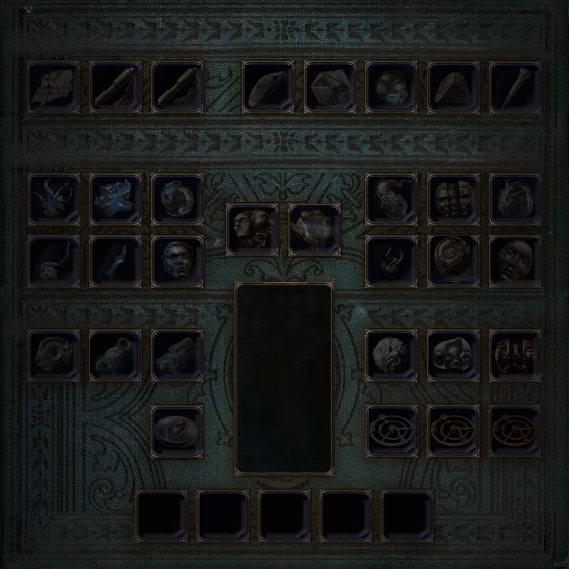
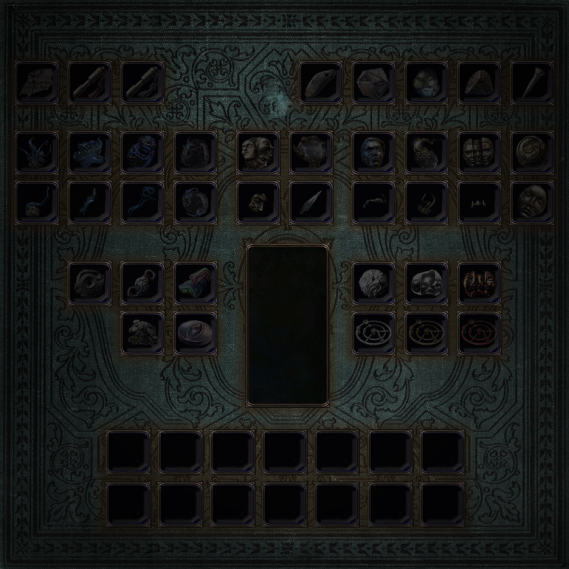
Added some stash tab backgrounds. Added scale values for stash items

diff --git a/core/items/stashitemlocation.cpp b/core/items/stashitemlocation.cpp
@@ -69,37 +69,55 @@ bool StashItemLocation::operator==(const ItemLocation &other) const {
     return _tabId == dynamic_cast<const StashItemLocation&>(other)._tabId;
 }
 
-void StashItemLocation::setItems(ItemList items, const QJsonObject &layout) {
-    _layout = layout;
+void StashItemLocation::setItems(ItemList items, const QJsonValue &layout) {
+    switch (_type) {
+        case Currency:
+        case Fragment: {
+            _layout = layout.toObject();
+        } break;
+        case Essence: {
+            if (layout.isArray()) {
+                _layout = QJsonObject();
+                auto arr = layout.toArray();
+                for (int i = 0; i < arr.size(); i++) {
+                    _layout.insert(QString::number(i), arr[i].toObject());
+                }
+            }
+            else {
+                _layout = layout.toObject();
+            }
+        } break;
+    }
+
     ItemLocation::setItems(items, layout);
+}
+
+double StashItemLocation::scale() const {
+    switch (_type) {
+        case Currency:  return 63.6f/80.0f;
+        case Essence:   return 63.6f/80.0f;
+        case Quad:      return 0.5f;
+        case Map:       return 71.0f/80.0f;
+        case Fragment:
+        default:        return 1.0f;
+    }
 }
 
 QPointF StashItemLocation::itemPos(const Item &item) const {
     QPointF pos = ItemLocation::itemPos(item);
     switch (_type) {
-        case Currency: {
+        case Currency:
+        case Fragment:
+        case Essence: {
             if (!_layout.isEmpty()) {
                 const QString key = QString::number((int)pos.x());
                 const QJsonObject object = _layout.value(key).toObject();
-                const double scale = object.value("scale").toDouble(1);
-                pos.setX((object.value("x").toDouble() / 47.4645) * scale);
-                pos.setY((object.value("y").toDouble() / 47.4645) * scale);
-            }
-        } break;
-        case Essence: {
-            if (!_layout.isEmpty()) {
-                int key = (int)pos.x();
-                const QJsonArray layout = _layout.value("essences").toArray();
-                const QJsonObject object = layout.at(key).toObject();
-                const double scale = _layout.value("scale").toDouble(1);
-
-                pos.setX((object.value("x").toDouble() / 47.4645) * scale);
-                pos.setY((object.value("y").toDouble() / 47.4645) * scale);
+                pos.setX(object.value("x").toDouble() / 47.4645);
+                pos.setY(object.value("y").toDouble() / 47.4645);
             }
         } break;
         case Quad: {
-            pos.setX(pos.x() * 0.5);
-            pos.setY(pos.y() * 0.5);
+            pos *= 0.5;
         } break;
     }
     return pos;
@@ -108,31 +126,20 @@ QPointF StashItemLocation::itemPos(const Item &item) const {
 QSizeF StashItemLocation::itemSize(const Item &item) const {
     QPointF pos = ItemLocation::itemPos(item);
     QSizeF size = ItemLocation::itemSize(item);
+    const double s = scale();
     switch (_type) {
-        case Currency: {
+        case Currency:
+        case Fragment:
+        case Essence: {
             if (!_layout.isEmpty()) {
                 const QString key = QString::number((int)pos.x());
                 const QJsonObject object = _layout.value(key).toObject();
-                size.setWidth(object.value("w").toInt());
-                size.setHeight(object.value("h").toInt());
+                size.setWidth((double)object.value("w").toInt());
+                size.setHeight((double)object.value("h").toInt());
             }
-        } break;
-        case Essence: {
-            if (!_layout.isEmpty()) {
-                int key = (int)pos.x();
-                const QJsonArray layout = _layout.value("essences").toArray();
-                const QJsonObject object = layout.at(key).toObject();
-
-                const double scale = _layout.value("scale").toDouble(1);
-                size.setWidth(object.value("w").toInt() * scale);
-                size.setHeight(object.value("h").toInt() * scale);
-            }
-        } break;
-        case Quad: {
-            size.setWidth(size.width() * 0.5);
-            size.setHeight(size.height() * 0.5);
         } break;
     }
+    size *= s;
     return size;
 }
 

diff --git a/plugins/StashViewer/stash/stashviewdata.h b/plugins/StashViewer/stash/stashviewdata.h
@@ -48,6 +48,11 @@ public:
     void setLoaded(bool loaded=true, bool throttled=false) {
         const QString colorHint = (getTab()->tabColor().lightnessF() > 0.5) ? "light" : "dark";
         QString icon = "";
+
+        static QPixmap currencyGrid(":/images/tabs/StashPanelCurrency.png");
+        static QPixmap fragmentGrid(":/images/tabs/StashPanelFragment.png");
+        static QPixmap essenceGrid (":/images/tabs/StashPanelEssence.png");
+        static QPixmap quadGrid    (":/images/tabs/StashPanelQuad.png");
         if (loaded) {
             if (getTab()->state() == StashItemLocation::LoadedFromDisk) {
                 icon = "database";
@@ -60,9 +65,19 @@ public:
             _gridRequirement->hide();
 
             const StashItemLocation* tab = dynamic_cast<const StashItemLocation*>(_tab);
-            if (tab && tab->type() == StashItemLocation::Currency) {
-                static QPixmap currencyGrid(":/images/tabs/StashPanelCurrency.png");
-                _grid->setPixmap(currencyGrid);
+            if (tab) {
+                if (tab->type() == StashItemLocation::Currency) {
+                    _grid->setPixmap(currencyGrid);
+                }
+                else if (tab->type() == StashItemLocation::Fragment) {
+                    _grid->setPixmap(fragmentGrid);
+                }
+                else if (tab->type() == StashItemLocation::Essence) {
+                    _grid->setPixmap(essenceGrid);
+                }
+                else if (tab->type() == StashItemLocation::Quad) {
+                    _grid->setPixmap(quadGrid);
+                }
             }
         }
         else {

diff --git a/core/items/stashitemlocation.h b/core/items/stashitemlocation.h
@@ -21,13 +21,12 @@ public:
     enum Type {
         Normal,
         Premium,
-        UNKNOWN_0,
         Currency,
-        UNKNOWN_1,
         Map,
         Divination,
-        Essence,
         Quad,
+        Essence,
+        Fragment,
     };
     Q_ENUM(Type)
 
@@ -46,7 +45,7 @@ public:
     bool operator<(const ItemLocation &other) const;
     bool operator==(const ItemLocation &other) const;
 
-    void setItems(ItemList items, const QJsonObject &layout);
+    void setItems(ItemList items, const QJsonValue &layout);
     QJsonObject toJson();
     bool fromJson(const QJsonObject& object);
     QPointF itemPos(const Item &item) const;
@@ -61,6 +60,7 @@ public:
         _updateInterval = interval;
     }
 
+    double scale() const;
 private:
     int _tabIndex;
     QString _tabId;

diff --git a/core/items/itemmanager.cpp b/core/items/itemmanager.cpp
@@ -407,14 +407,11 @@ void ItemManager::onStashTabResult(QString league, QByteArray json, QVariant dat
                 "quadLayout",
                 "mapLayout",
             };
-            QJsonObject layout;
 
+            QJsonValue layout;
             for (const QString &type : Types) {
                 if (doc.object().contains(type)) {
-                    const QJsonValue val = doc.object().value(type);
-                    if (!val.isObject()) continue;
-                    layout = val.toObject();
-                    break;
+                    layout = doc.object().value(type);
                 }
             }
 

diff --git a/core/items/itemlocation.h b/core/items/itemlocation.h
@@ -47,7 +47,7 @@ public:
         return QSizeF(item.data("w").toInt(), item.data("h").toInt());
     }
 
-    virtual void setItems(ItemList items, const QJsonObject &layout = QJsonObject()) {
+    virtual void setItems(ItemList items, const QJsonValue &layout = QJsonValue()) {
         Q_UNUSED(layout);
         _items.clear();
         _items.append(items);
